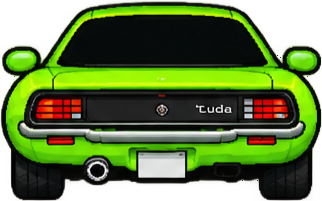
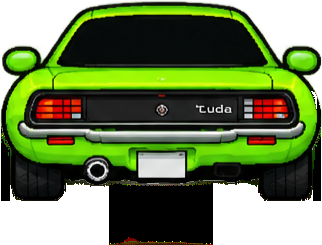
revert: volta os sprites para a versao approved (3b4bf51) + no-cache no index.html

diff --git a/index.html b/index.html
@@ -2,6 +2,9 @@
 <html lang="pt-BR">
 <head>
   <meta charset="UTF-8" />
+  <meta http-equiv="Cache-Control" content="no-cache, no-store, must-revalidate" />
+  <meta http-equiv="Pragma" content="no-cache" />
+  <meta http-equiv="Expires" content="0" />
   <meta name="viewport" content="width=device-width, initial-scale=1.0, maximum-scale=1.0, user-scalable=no" />
   <title>NITRO HORIZON</title>
   <meta name="description" content="Corrida arcade pseudo-3D em pixel art: 15 carros, 4 modelos, 3 pistas e HUD retrô." />
